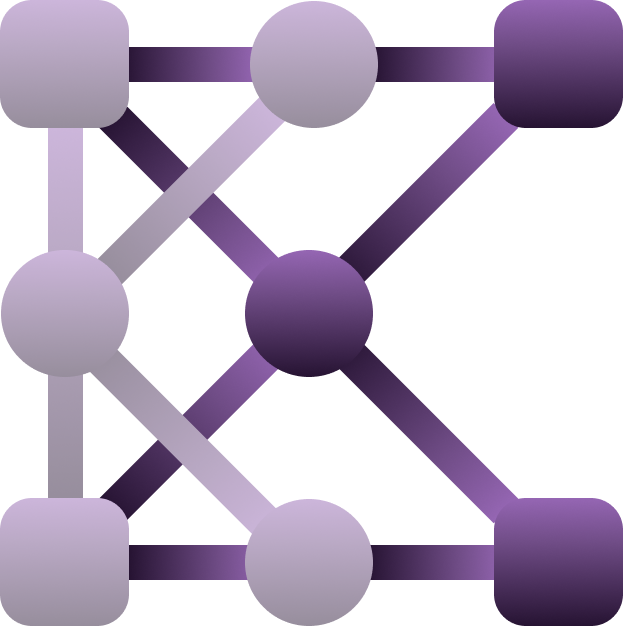
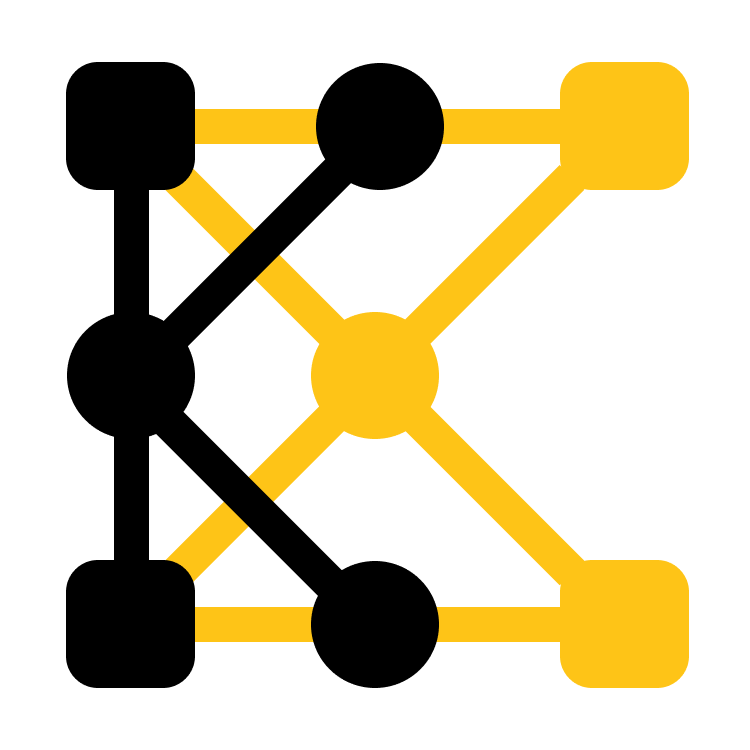
new theme

diff --git a/screens/OnboardingScreen.tsx b/screens/OnboardingScreen.tsx
@@ -27,7 +27,7 @@ const slides = [
       'Track payments, subscriptions, and due dates in one place with a calmer daily view.',
     cardTitle: 'Today at a glance',
     cardSubtitle: '3 items need attention',
-    tone: '#EEF2FF',
+    tone: '#FFF6D8',
     accent: colors.primary,
     mode: 'overview' as const,
   },
@@ -39,7 +39,7 @@ const slides = [
       'Upcoming and overdue items stay visible so you can act before anything slips.',
     cardTitle: 'Priority queue',
     cardSubtitle: 'Sorted by due date',
-    tone: '#FFF7DB',
+    tone: '#FFF5CF',
     accent: colors.secondary,
     mode: 'timeline' as const,
   },
@@ -51,7 +51,7 @@ const slides = [
       'Capture a bill, refine the details, and keep your system updated in just a few taps.',
     cardTitle: 'Capture flow',
     cardSubtitle: 'Camera to confirmation',
-    tone: '#FFF1E3',
+    tone: '#FFF3D6',
     accent: colors.tertiary,
     mode: 'steps' as const,
   },
@@ -121,7 +121,7 @@ export function OnboardingScreen({ onContinue }: OnboardingScreenProps) {
               <View className="gap-4">
                 <View className="gap-2.5">
                   <View className="flex-row items-center gap-3">
-                    <View className="rounded-2xl bg-[#F1ECFA] px-2 py-2">
+                    <View className="rounded-2xl bg-[#FFF3CC] px-2 py-2">
                       <BrandLogo variant="mark" width={40} height={40} />
                     </View>
                     <Text className="font-manrope text-[26px] leading-[30px] text-primary">
@@ -170,10 +170,10 @@ export function OnboardingScreen({ onContinue }: OnboardingScreenProps) {
                               $120
                             </Text>
                           </View>
-                          <View className="rounded-full bg-[#FFE3DB] px-3.5 py-2">
-                            <Text className="font-inter-medium text-[15px] leading-[22px] text-danger">
-                              Due today
-                            </Text>
+                        <View className="rounded-full bg-[#FFEAB0] px-3.5 py-2">
+                          <Text className="font-inter-medium text-[15px] leading-[22px] text-danger">
+                            Due today
+                          </Text>
                           </View>
                         </View>
                         <View className="mt-[18px] flex-row gap-3">
@@ -209,7 +209,7 @@ export function OnboardingScreen({ onContinue }: OnboardingScreenProps) {
                           <View
                             key={entry.label}
                             className="flex-row items-center gap-3 rounded-2xl bg-surface p-[14px]">
-                            <View className="h-[34px] w-[34px] items-center justify-center rounded-full bg-[#E9EEFF]">
+                            <View className="h-[34px] w-[34px] items-center justify-center rounded-full bg-[#FFF1C3]">
                               <Ionicons color={colors.primary} name={entry.icon} size={16} />
                             </View>
                             <View className="flex-1">
@@ -229,9 +229,9 @@ export function OnboardingScreen({ onContinue }: OnboardingScreenProps) {
                     {item.mode === 'steps' ? (
                       <View className="flex-row items-center justify-between">
                         {[
-                          { label: 'Capture', icon: 'camera-outline' as const, bg: '#E6EEFF' },
-                          { label: 'Review', icon: 'create-outline' as const, bg: '#FFF7DB' },
-                          { label: 'Save', icon: 'checkmark-outline' as const, bg: '#EAF8EF' },
+                          { label: 'Capture', icon: 'camera-outline' as const, bg: '#FFF1C3' },
+                          { label: 'Review', icon: 'create-outline' as const, bg: '#FFE39A' },
+                          { label: 'Save', icon: 'checkmark-outline' as const, bg: '#FFF8E3' },
                         ].map((step, stepIndex) => (
                           <View key={step.label} className="relative flex-1 items-center">
                             <View

diff --git a/tailwind.config.js b/tailwind.config.js
@@ -14,21 +14,21 @@ module.exports = {
   theme: {
     extend: {
       colors: {
-        primary: '#1A237E',
-        secondary: '#FFD700',
-        tertiary: '#FFBF00',
-        background: '#F8F9FA',
-        surface: '#FCFCFD',
-        'surface-muted': '#F1F2F5',
-        'surface-soft': '#F3F4F7',
-        'text-primary': '#111111',
-        'text-secondary': '#6B7280',
-        border: '#D7DBE3',
-        'border-strong': '#B9C0CF',
-        ink: '#2E3138',
+        primary: '#050505',
+        secondary: '#FFC61A',
+        tertiary: '#E3AF00',
+        background: '#FFFCF4',
+        surface: '#FFFFFF',
+        'surface-muted': '#FFF5CF',
+        'surface-soft': '#FFF8E3',
+        'text-primary': '#0A0A0A',
+        'text-secondary': '#6F6A5F',
+        border: '#E8DFC3',
+        'border-strong': '#D7C788',
+        ink: '#161616',
         success: '#1F8A4D',
         danger: '#C0392B',
-        warning: '#8A6B00',
+        warning: '#9A6B00',
       },
       fontFamily: {
         inter: ['Inter_400Regular'],

diff --git a/theme/colors.ts b/theme/colors.ts
@@ -1,19 +1,19 @@
 export const colors = {
-  primary: '#1A237E',
-  secondary: '#FFD700',
-  tertiary: '#FFBF00',
-  background: '#F8F9FA',
-  surface: '#FCFCFD',
-  surfaceMuted: '#F1F2F5',
-  surfaceSoft: '#F3F4F7',
-  textPrimary: '#111111',
-  textSecondary: '#6B7280',
-  border: '#D7DBE3',
-  borderStrong: '#B9C0CF',
-  ink: '#2E3138',
+  primary: '#050505',
+  secondary: '#FFC61A',
+  tertiary: '#E3AF00',
+  background: '#FFFCF4',
+  surface: '#FFFFFF',
+  surfaceMuted: '#FFF5CF',
+  surfaceSoft: '#FFF8E3',
+  textPrimary: '#0A0A0A',
+  textSecondary: '#6F6A5F',
+  border: '#E8DFC3',
+  borderStrong: '#D7C788',
+  ink: '#161616',
   success: '#1F8A4D',
   danger: '#C0392B',
-  warning: '#8A6B00',
-  darkBackground: '#0A0A0A',
-  darkCard: '#1A1A1A',
+  warning: '#9A6B00',
+  darkBackground: '#050505',
+  darkCard: '#171717',
 } as const;
